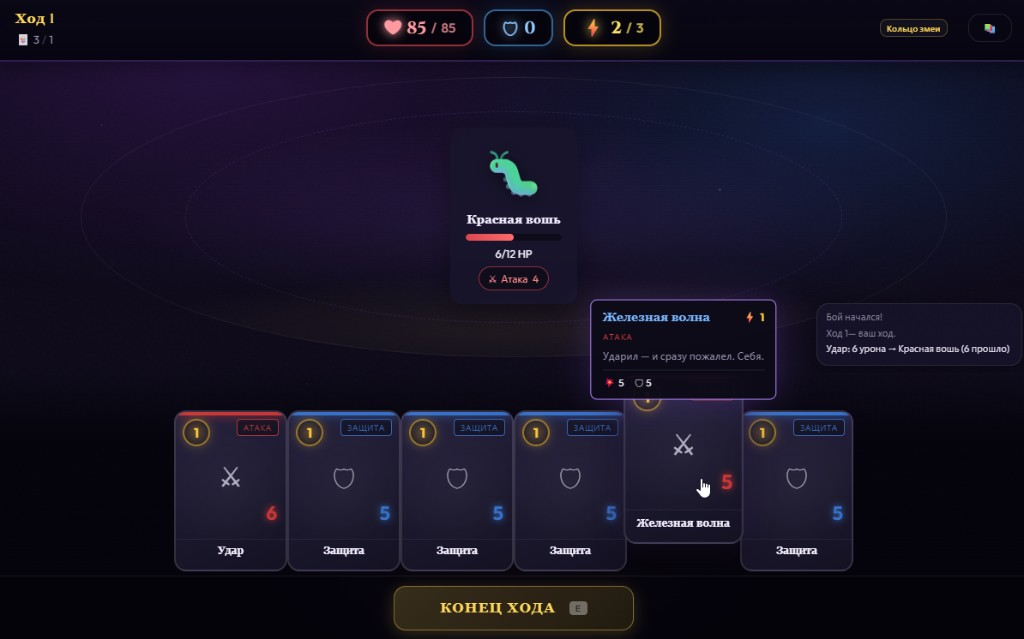
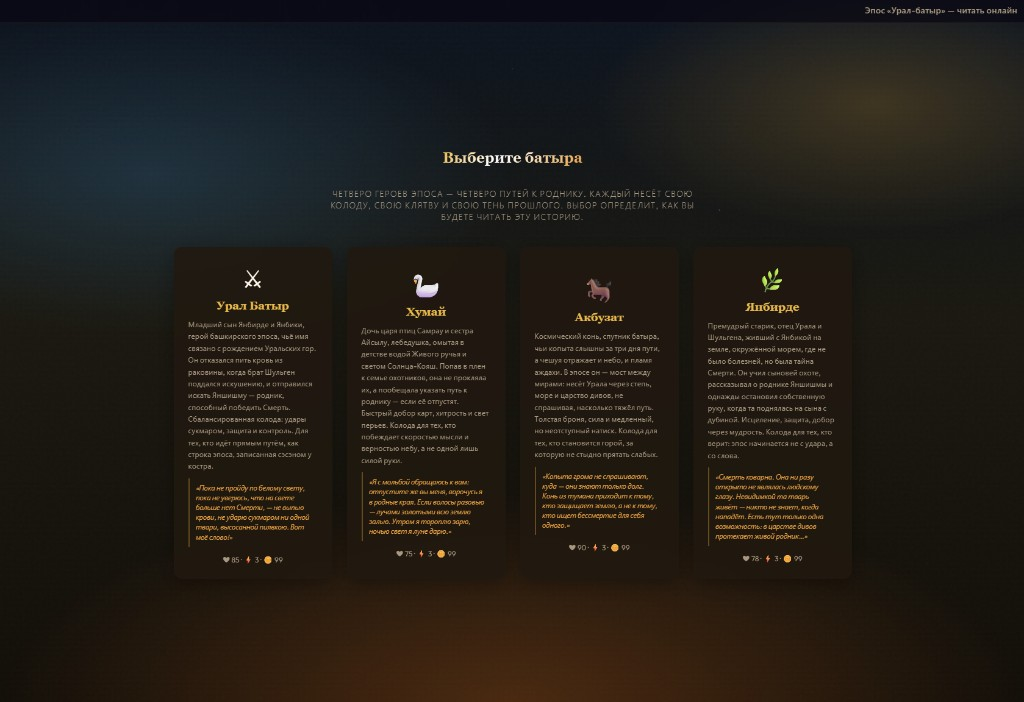
Ural update

diff --git a/script.js b/script.js
@@ -513,22 +513,23 @@ function loadProject(projectId) {
 
             case "OnlineCardGame":
                 content = `
-                    <h2>Тени Шпиля — Online Card Game</h2>
+                    <h2>Приключения Урала Батыра</h2>
                     <p><strong>Сайт:</strong> <a href="https://spirzen.github.io/OnlineCardGame/" target="_blank" rel="noopener">spirzen.github.io/OnlineCardGame</a></p>
                     <p><strong>Стек:</strong> React 19, TypeScript 5.8, Vite 6, vite-plugin-pwa (Workbox), Vitest 3; GitHub Pages, GitHub Actions</p>
                     <p><strong>Ссылка на GitHub:</strong> <a href="https://github.com/Spirzen/OnlineCardGame" target="_blank" rel="noopener">https://github.com/Spirzen/OnlineCardGame</a></p>
-                    <p><strong>Описание:</strong> Браузерный карточный roguelike в духе <em>Slay the Spire</em>: процедурная карта из 15 этажей, пошаговые бои с намерениями врагов, реликвии, лавка, события и встроенный редактор карт. Полностью на клиенте — прогресс и кастомные карты в <code>localStorage</code>, установка как PWA.</p>
+                    <p><strong>Эпос:</strong> <a href="https://skazki.rustih.ru/ural-batyr/" target="_blank" rel="noopener">«Урал-батыр»</a> — башкирское сказание о Янбирде, Урале, Шульгене, Хумай и поисках родника Яншишмы</p>
+                    <p><strong>Описание:</strong> Браузерный карточный roguelike по мотивам башкирского эпоса — механика в духе <em>Slay the Spire</em>, но с полностью оригинальной оболочкой: герои, враги, карты, события и дары вплетены в сюжет. У каждой карты, встречи и реликвии — развёрнутый лор с отсылками к эпосу. Без сервера: прогресс и кастомные карты в <code>localStorage</code>, установка как PWA.</p>
                     <ul align="left">
-                        <li align="left">3 класса (Воин, Плут, Страж), 70+ карт, 15 реликвий, 9 врагов с уникальными паттернами;</li>
-                        <li align="left">узлы карты: бои, элиты, боссы, костёр, лавка, сундуки, случайные события;</li>
-                        <li align="left">энергия, блок, сила, уязвимость, мульти-таргет, журнал боя в реальном времени;</li>
-                        <li align="left">ежедневный забег с общим seed, статистика и таблица лидеров;</li>
-                        <li align="left">редактор пользовательских карт — кастомные карты попадают в пул наград и лавки;</li>
-                        <li align="left">контент в JSON (<code>cards.json</code>, <code>enemies.json</code>, <code>relics.json</code>), unit-тесты игровой логики (Vitest).</li>
+                        <li align="left">4 батыра — Урал, Хумай, Акбузат, Янбирде; у каждого своя колода, цитата из эпоса и стиль игры;</li>
+                        <li align="left">3 части эпоса на карте из 15 этапов: <em>Янбирде и дети</em> → <em>Поиски Яншишмы</em> → <em>Наследие батыра</em>;</li>
+                        <li align="left">76+ карт с лор-текстами (<em>Удар сукмара</em>, <em>Гром Самрау</em>, <em>Капля Яншишмы</em>…), 15 даров, 12 врагов, финал — битва с Шульгеном;</li>
+                        <li align="left">9 событий на тропе: родник Яншишмы, лебедушка Хумай, конь Акбузат, голос Шульгена, совет зверей…;</li>
+                        <li align="left">пошаговый бой с намерениями врагов, полные тултипы лора, лавка кочевника, привал у костра, кузница батыра;</li>
+                        <li align="left">ежедневный поход с общим seed, статистика и топ батыров, редактор пользовательских карт;</li>
+                        <li align="left">контент в JSON + скрипт <code>expand-lore.mjs</code> для массового обновления описаний, unit-тесты (Vitest).</li>
                     </ul>
                     <p><strong>Скриншот:</strong></p>
-                    <p><img src="Resources/Screenshots/OnlineCardGame.png" alt="Online Card Game — бой"></p>
-                    <p><strong>Десктопная версия:</strong> <a href="#" onclick="loadProject('AutoBattler'); return false;">AutoBattler — Тени Шпиля (Pygame)</a></p>
+                    <p><img src="Resources/Screenshots/OnlineCardGame.png" alt="Приключения Урала Батыра — выбор батыра"></p>
                 `;
                 break;
 

diff --git a/index.html b/index.html
@@ -260,7 +260,7 @@
 						<li onclick="loadProject('RandomManager')">🎲 RandomManager</li>
 						<li onclick="loadProject('DatabaseSchemaViewer')">🗄 Database Schema Viewer</li>
 						<li onclick="loadProject('PATHManager')">🛤 PATH Manager</li>
-						<li onclick="loadProject('OnlineCardGame')">🃏 Тени Шпиля — Online Card Game</li>
+						<li onclick="loadProject('OnlineCardGame')">⚔️ Приключения Урала Батыра</li>
 						<li onclick="loadProject('SampleSupport')">🎧 Центр поддержки (sample.support)</li>
 						<li onclick="loadProject('SchemaMaker')">📐 Schema Maker</li>
 						<li onclick="loadProject('ArchiStyler')">🏗 ArchiStyler — архитектура → код</li>

diff --git a/README.md b/README.md
@@ -114,7 +114,7 @@ flowchart TB
 | Pythonablo | https://github.com/Spirzen/Pythonablo |
 | Simple Survivors | https://github.com/Spirzen/Simple-Survivors |
 | AutoBattler (Тени Шпиля) | https://github.com/Spirzen/AutoBattler |
-| Online Card Game (Тени Шпиля) | https://github.com/Spirzen/OnlineCardGame · [демо](https://spirzen.github.io/OnlineCardGame/) |
+| Приключения Урала Батыра | https://github.com/Spirzen/OnlineCardGame · [демо](https://spirzen.github.io/OnlineCardGame/) |
 
 ## Ресурсы
 